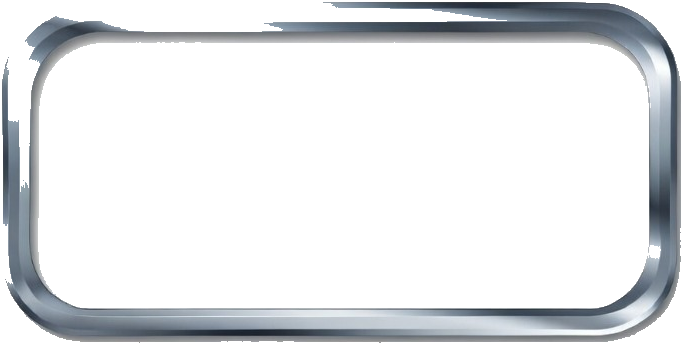
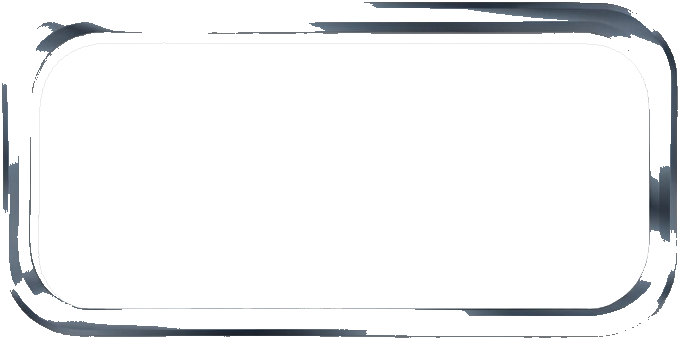
style: replace metallic frame with clean dark grey border

Changed region(s): [[0.0, 0.0294, 1.0, 1.0], [0.4632, 0.0, 0.5559, 0.0294]]

diff --git a/src/pages/AuthPage.module.css b/src/pages/AuthPage.module.css
@@ -18,12 +18,9 @@
     width: 100%;
     max-width: 480px;
     background: linear-gradient(180deg, rgba(20, 20, 40, 0.95) 0%, rgba(12, 12, 28, 0.98) 100%);
-    border: 35px solid transparent;
-    border-image-slice: 62 54 57 58;
-    border-image-width: 35px;
-    border-image-repeat: stretch;
-    /* border-image-source set via inline style for Vite base URL */
-    padding: 2rem 1.5rem 1.5rem;
+    border: 3px solid #555;
+    border-radius: 16px;
+    padding: 2.5rem 2rem 2rem;
     box-shadow:
         0 20px 60px rgba(0, 0, 0, 0.5),
         0 0 40px rgba(65, 105, 225, 0.15);

diff --git a/src/pages/AuthPage.tsx b/src/pages/AuthPage.tsx
@@ -156,10 +156,7 @@ export default function AuthPage() {
 
     return (
         <div className={styles.container}>
-            <div
-                className={styles.authCard}
-                style={{ borderImageSource: `url(${import.meta.env.BASE_URL}images/auth-frame.png)` }}
-            >
+            <div className={styles.authCard}>
                 {/* Logo */}
                 <div className={styles.logo}>
                     <img
